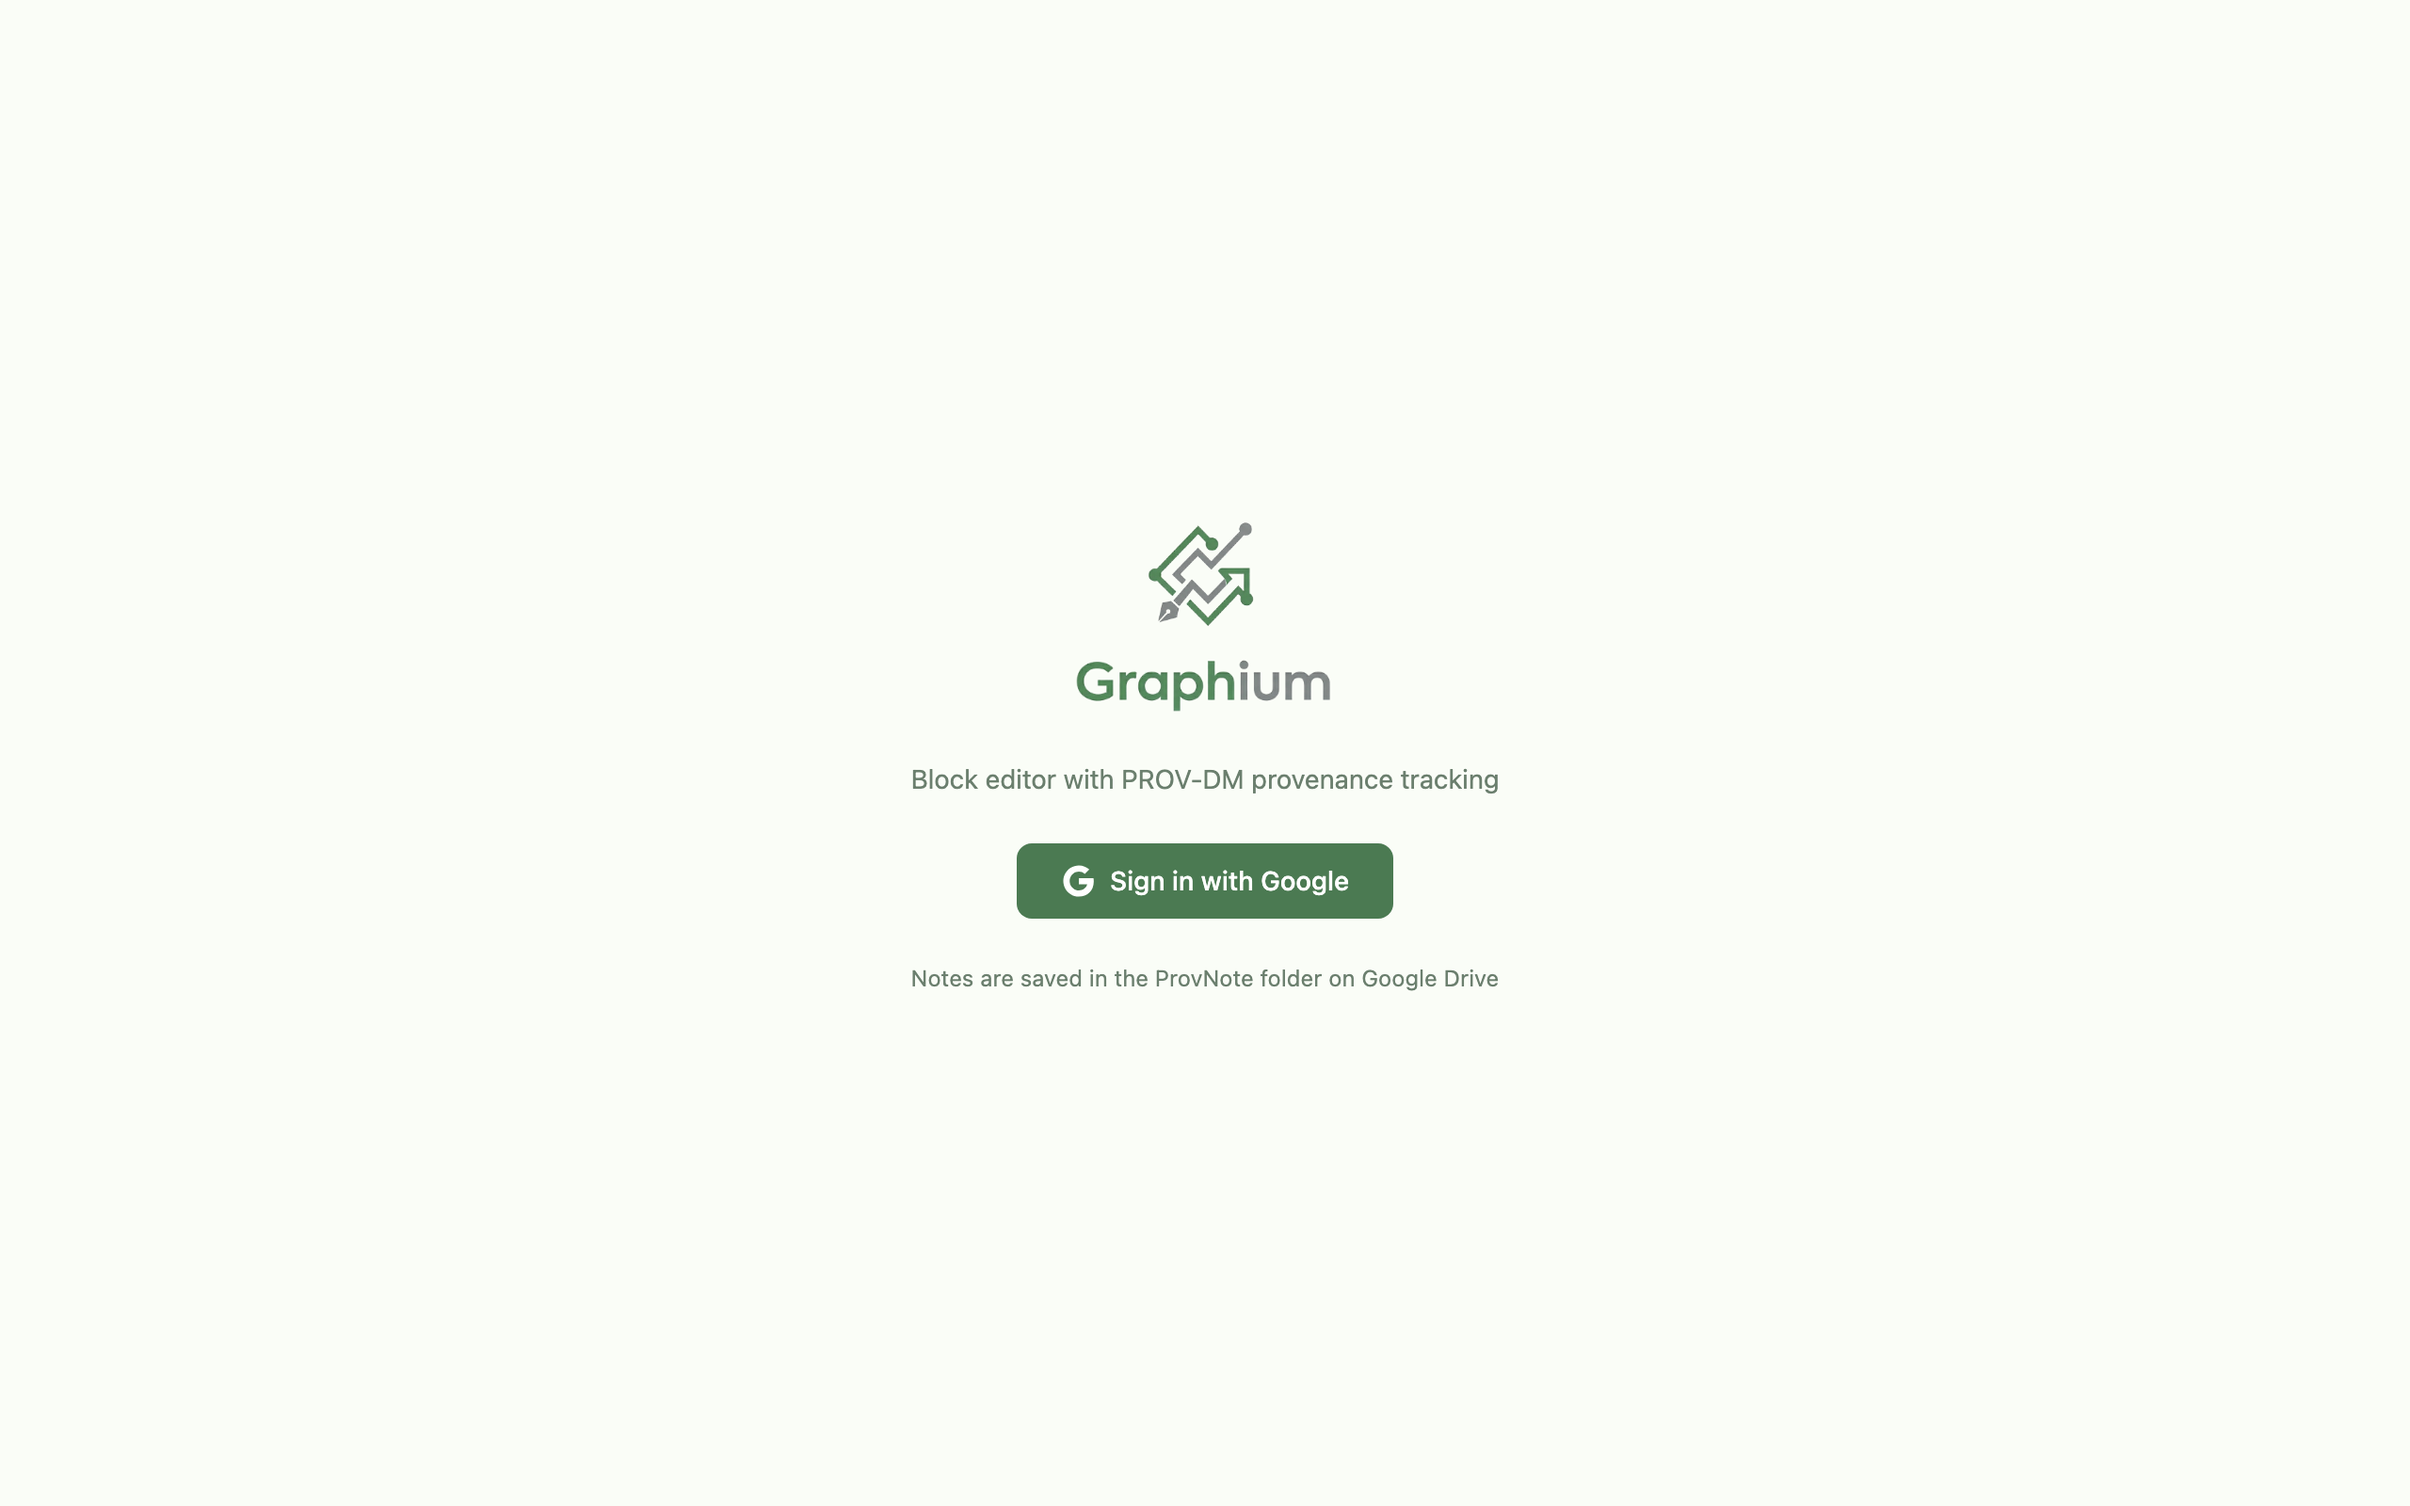
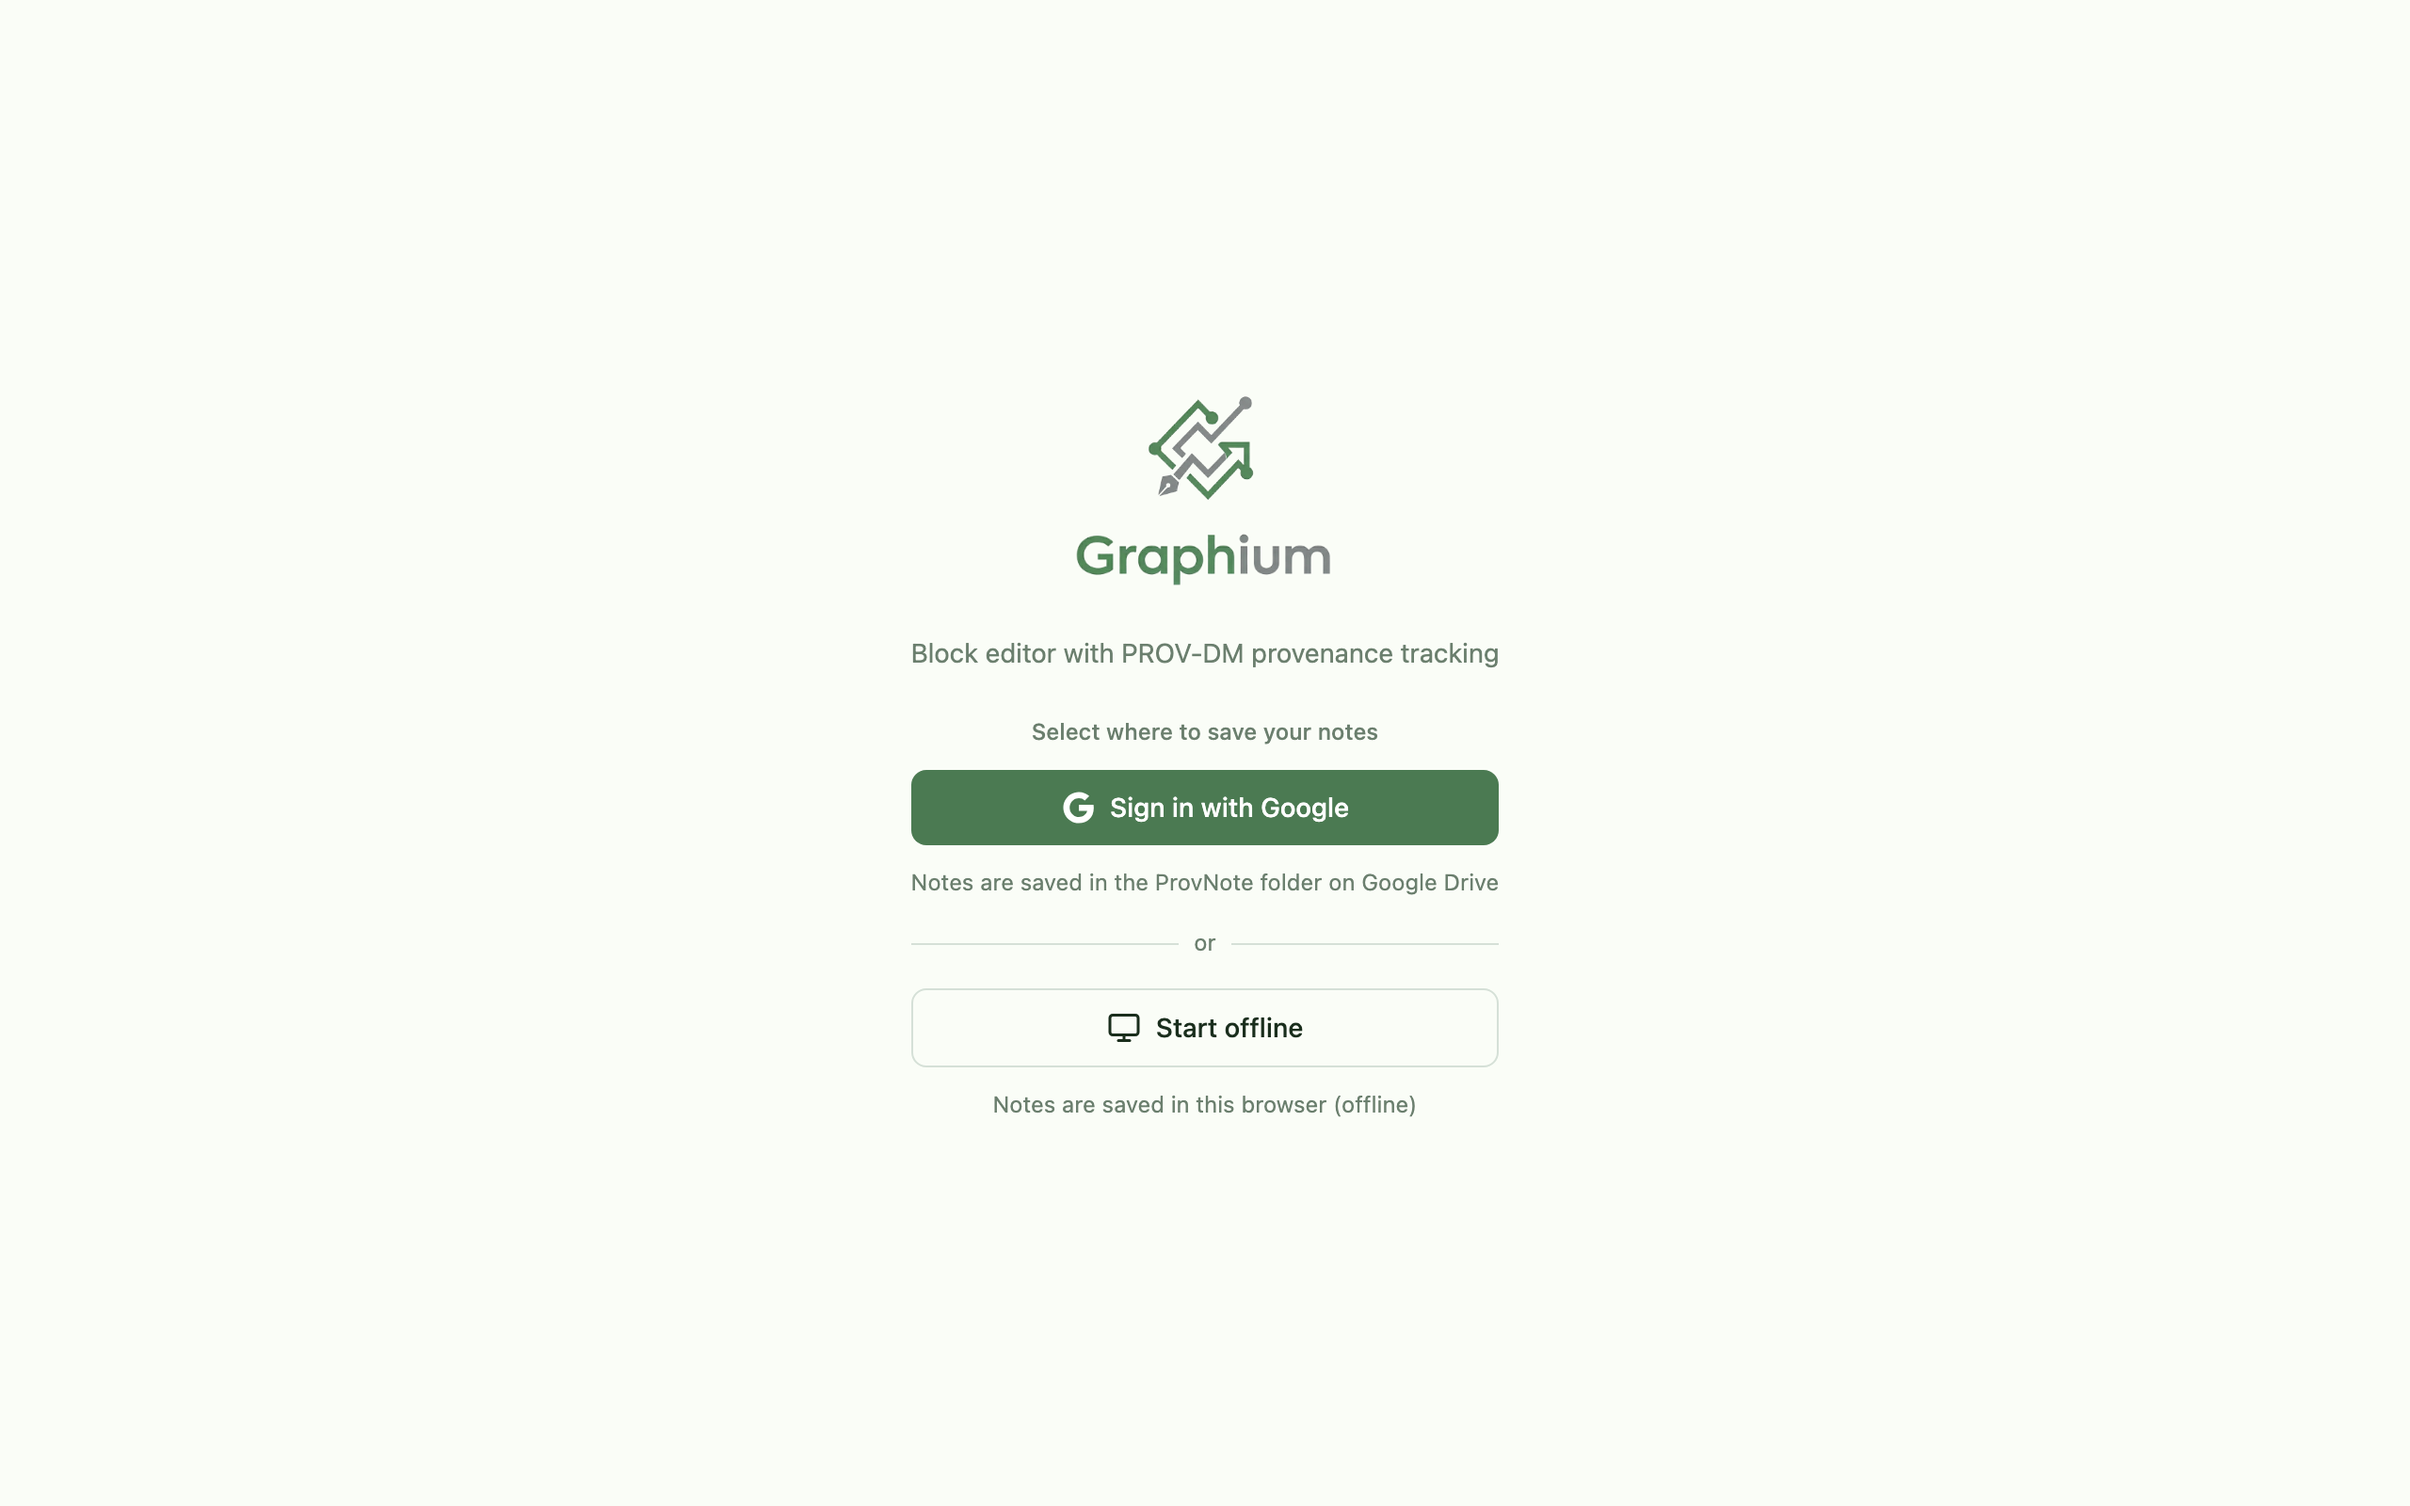
[docs] Replace sandbox screenshots with production UI screenshots
- All screenshots now use the real app UI (via offline storage provider)
- editor.png: 3-column layout with sidebar, editor, and graph panel
- prov-graph.png: PROV-DM graph with Material node
- history.png: Document provenance revision history
- login.png: Updated login screen with Google + Offline options
- Also captured: label-dropdown, network-graph, chat panel

Changed region(s): [[0.375, 0.25, 0.625, 0.6875], [0.4062, 0.7188, 0.5938, 0.75]]

diff --git a/README.md b/README.md
@@ -129,20 +129,20 @@ Google Drive sync works without any configuration. To enable AI features, you ne
 
 <table>
   <tr>
-    <td><b>Editor with context labels & sidebar</b></td>
+    <td><b>Editor with context labels</b></td>
     <td><b>Provenance graph (PROV-DM)</b></td>
   </tr>
   <tr>
-    <td><img src="docs/screenshots/sandbox.png" alt="Editor" width="400" /></td>
-    <td><img src="docs/screenshots/prov-generator.png" alt="Provenance graph" width="400" /></td>
+    <td><img src="docs/screenshots/editor.png" alt="Editor" width="400" /></td>
+    <td><img src="docs/screenshots/prov-graph.png" alt="Provenance graph" width="400" /></td>
   </tr>
   <tr>
-    <td><b>Inter-note network graph</b></td>
-    <td><b>Label gallery (index table)</b></td>
+    <td><b>Document provenance history</b></td>
+    <td><b>Login screen</b></td>
   </tr>
   <tr>
-    <td><img src="docs/screenshots/graph.png" alt="Network graph" width="400" /></td>
-    <td><img src="docs/screenshots/label-gallery.png" alt="Label gallery" width="400" /></td>
+    <td><img src="docs/screenshots/history.png" alt="Document provenance" width="400" /></td>
+    <td><img src="docs/screenshots/login.png" alt="Login" width="400" /></td>
   </tr>
 </table>
 
